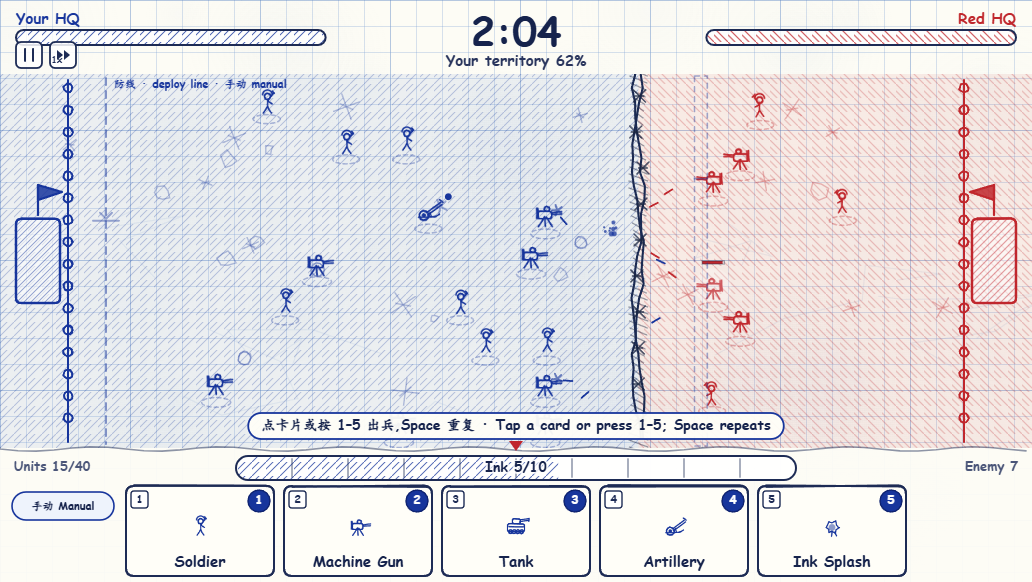
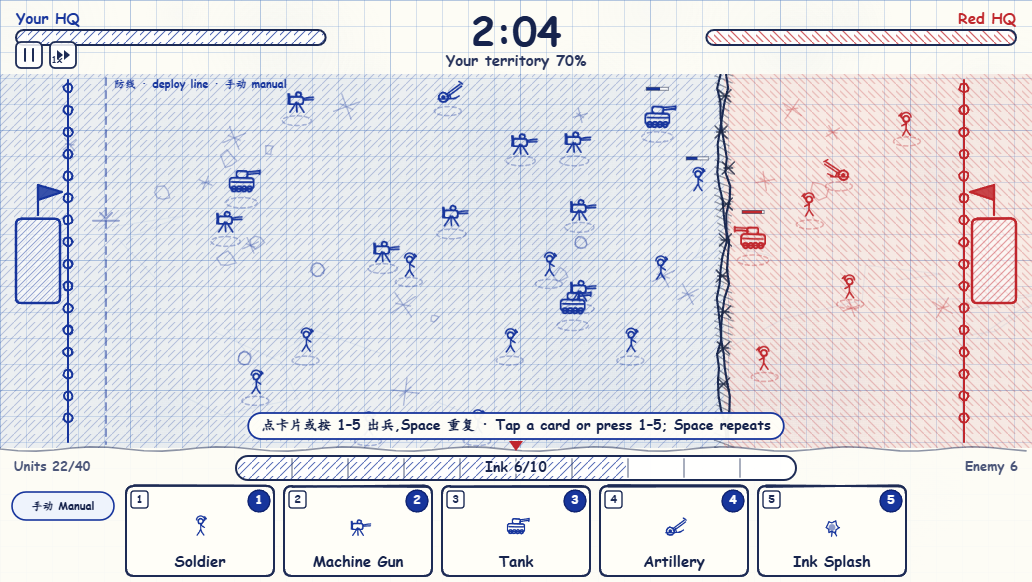
The front line is a boundary; only the front rank fights in the open
Units were standing on the wrong side of the moving front line. Measured over
a full match: up to 94 px past it, in one second out of seven, and in 4
seconds out of 43 the two armies were interleaved in x - red reinforcements
were spawning *behind* a blue spearhead that had outrun the line.

Cause: frontX eases towards the midpoint of the two front ranks at 22 px/s,
so it trails whoever is pushing. It cannot simply be a wall the units obey -
the line is derived from unit positions, so pinning units to it makes the
midpoint equal the line and the front freezes forever. Units must be free to
lead; the line must be forbidden to lag, so updateFront() now clamps frontX
into the gap between the two leads. Spawn positions take their floor/ceiling
from the leads rather than from the lagging line.

Result, same measurement: 0 px of penetration and 0 interleaved frames over
23,000 frames across all three difficulties, and on screen the deepest blue
sprite now stops inside the blue half.

Cover follows. The old rule ("half damage while behind the line") was, in
practice, always on - which is why it is replaced rather than kept:

- a unit is in the open if it is in the deepest 1/8 of its army (FRONT_RANK),
  and a force under 8 is entirely dug in
- the naive version ("a lone unit is its own front rank") halves the effective
  hp of every lone tank and artillery piece and flips the locked counter-
  triangle: 4 soldiers stop beating a tank, 5 stop beating an artillery. The
[…]

diff --git a/paper-trench.html b/paper-trench.html
@@ -57,9 +57,12 @@ var HQ_REGEN = 14;           // hp/s once the HQ has been left alone for a momen
 var HQ_RANGE = 195;          // the HQ watchtower's reach
 var HQ_DPS   = 15;           // per shot
 var HQ_RATE  = 0.42;         // seconds between shots
-var PLAYER_REGEN = 0.82;     // ink per second (nudged up when the ranged units gained reach)
+var PLAYER_REGEN = 1.05;     // ink per second. Raised twice, each time to pay for a change
+                             // that measurably favoured the AI: longer ranged units, then
+                             // the exposed front rank. Re-run the ladder before touching it.
 var MAX_UNITS_PER_SIDE = 40;
 var FRONT_SPEED = 22;        // how fast the trench line crawls, px/s at ui 1
+var FRONT_RANK = 8;          // one unit in eight is in the open — see inCover()
 
 /* ------------------------------- state --------------------------------- */
 var W = 0, H = 0, DPR = 1;
@@ -78,6 +81,10 @@ var G = {
   ink: 10,
   aiInk: 8,
   frontX: 0,
+  blueLead: -1,          // deepest blue unit (its x); -1 while the army is empty
+  redLead: 1e9,          // deepest red unit; the line may never cross either lead
+  blueOpen: 1e9,         // blue forward of this x is in the open; 1e9 = nobody is
+  redOpen: -1,           // red behind this x is in the open;  -1  = nobody is
   units: [],
   projs: [],
   fx: [],
@@ -454,10 +461,10 @@ function unitSprite(key, side) {
    special advantage instead:
        Soldier    Q ~1180  the yardstick: most hp and dps per ink, but fragile
        Tank       Q ~ 760  pays for concentration and surviving artillery
-       Machine Gun Q ~ 670  pays for 125 range
-       Artillery  Q ~ 180  pays for 265 range + splash, dies to anything close
-   DPS is the real damage per second against one target, ignoring the 50% bonus
-   for standing on your own soil (which applies to both sides). */
+       Machine Gun Q ~ 670  pays for 168 range
+       Artillery  Q ~ 180  pays for 285 range + splash, dies to anything close
+   DPS is the real damage per second against one target, with the exposed front rank
+   taking full damage and the support ranks taking half (both sides alike). */
 var UNITS = {
   soldier: {
     key: "soldier", name: "Soldier", cn: "士兵", cost: 1,
@@ -482,7 +489,7 @@ var UNITS = {
   ink: {
     key: "ink", name: "Ink Splash", cn: "墨水泼溅", cost: 5,
     hp: 0, speed: 0, range: 0, dmg: 175, rate: 0, radius: 122, instant: true,
-    desc: "Instant. Auto-aimed at the enemy's biggest knot: 175 damage across a whole trench column — wipes out infantry, even on their own soil."
+    desc: "Instant. Auto-aimed at the enemy's biggest knot: 175 damage across a whole trench column — it wipes out infantry even in cover."
   }
 };
 var ORDER = ["soldier", "mg", "tank", "artillery", "ink"];
@@ -524,6 +531,8 @@ function startGame(diff) {
   G.enemyHQ  = { side: "red",  isHQ: true, x: W - m, y: f.y + f.h / 2, hp: HQ_HP, maxHp: HQ_HP, flash: 0,
                  range: HQ_RANGE * L.ui, turretT: 0.6, calm: 0 };
   G.frontX = W / 2;
+  G.blueLead = -1; G.redLead = 1e9;
+  G.blueOpen = 1e9; G.redOpen = -1;
 }
 
 function endGame(reason) {
@@ -610,14 +619,18 @@ function deployLineX(side) {
 }
 
 function playerSpawnX() {
-  // never left of the line, never past the trench
-  return clamp(Math.min(deployLineX("blue"), G.frontX - 24 * L.ui), 12, W - 14);
+  // never right of the line, and never right of the enemy's deepest scout
+  var x = Math.min(deployLineX("blue"), G.frontX - 24 * L.ui);
+  if (G.redLead <= W) x = Math.min(x, G.redLead - 34 * L.ui);
+  return clamp(x, 12, W - 14);
 }
 
 function enemySpawnX() {
   // enemy troops march out of their own defence line on the far right — they no
-  // longer materialise next to the front.
-  return clamp(Math.max(deployLineX("red"), G.frontX + 24 * L.ui), 12, W - 14);
+  // longer materialise next to the front, and never behind our spearhead.
+  var x = Math.max(deployLineX("red"), G.frontX + 24 * L.ui);
+  if (G.blueLead >= 0) x = Math.max(x, G.blueLead + 34 * L.ui);
+  return clamp(x, 12, W - 14);
 }
 
 // One tap = one unit on the field, so the lane has to be chosen for the player.
@@ -733,13 +746,22 @@ function spawnInkBlot(side, tx, ty, dmg, radius) {
 }
 
 /* -------------------------------- combat ------------------------------- */
-function onOwnSoil(u) {
-  return u.side === "blue" ? (u.x < G.frontX) : (u.x > G.frontX);
+// Half damage, unless you are in the open.
+//
+// Exposure is a property of a *line*, not of whichever unit happens to be deepest:
+// one unit in FRONT_RANK is in the open, and a force smaller than that is entirely
+// dug in. Making a lone unit its own front rank would strip the tank and the
+// artillery of half their effective hp — a lone heavy unit would always be exposed —
+// and that flips the locked counter-triangle (4 soldiers stop beating a tank).
+// Do not "simplify" this back to a distance from the deepest unit.
+function inCover(u) {
+  if (u.side === "blue") return u.x < G.blueOpen;
+  return u.x > G.redOpen;
 }
 
 function damageUnit(u, dmg) {
   if (u.hp <= 0) return;
-  if (onOwnSoil(u)) dmg *= 0.5;          // 50% damage reduction on your own territory
+  if (inCover(u)) dmg *= 0.5;            // 50% damage reduction for the support ranks
   u.hp -= dmg;
   u.flash = 0.16;
   if (u.hp <= 0) killUnit(u);
@@ -1022,6 +1044,29 @@ function updateFront(dt) {
   var spd = FRONT_SPEED * L.ui * resist;
   G.frontX += clamp(target - G.frontX, -spd * dt, spd * dt);
   G.frontX = clamp(G.frontX, margin * 0.5, W - margin * 0.5);
+
+  // The line is a boundary, not just a trailing average. It may never sit behind the
+  // deepest unit of either army, or that unit would be standing on the wrong side of
+  // the line it is supposed to be holding. Note the target above is still the midpoint
+  // of the two *averages* — that is the intent; this clamp is the guarantee.
+  G.blueLead = blues.length ? blues[0] : -1;
+  G.redLead = reds.length ? reds[0] : 1e9;
+
+  // Who is standing in the open: the deepest slice of each army, one unit in
+  // FRONT_RANK. A force smaller than FRONT_RANK has no front rank to expose, so it is
+  // all in cover — that is what keeps lone tanks and artillery viable.
+  var k = Math.floor(blues.length / FRONT_RANK);
+  G.blueOpen = k > 0 ? blues[k - 1] : 1e9;
+  k = Math.floor(reds.length / FRONT_RANK);
+  G.redOpen = k > 0 ? reds[k - 1] : -1;
+
+  if (blues.length && reds.length && G.blueLead <= G.redLead) {
+    G.frontX = clamp(G.frontX, G.blueLead, G.redLead);
+  } else {
+    // no army on one side, or the two are somehow interleaved: hold our own lead.
+    if (blues.length) G.frontX = Math.max(G.frontX, G.blueLead);
+    if (reds.length) G.frontX = Math.min(G.frontX, G.redLead);
+  }
 }
 
 function updateFX(dt) {
@@ -1657,8 +1702,8 @@ function drawUnit(u) {
   var x = u.x - s / 2;
   var y = u.y - s / 2 + bob;
 
-  // shield hint: standing on your own soil = 50% less damage
-  if (onOwnSoil(u)) {
+  // shield hint: the support ranks take half damage, the open front rank does not
+  if (inCover(u)) {
     ctx.save();
     ctx.globalAlpha = 0.32;
     ctx.strokeStyle = u.side === "blue" ? C.blue : C.red;

diff --git a/AGENTS.md b/AGENTS.md
@@ -25,12 +25,12 @@ These are requirements, not preferences. Breaking one breaks the deliverable.
 for the banner, not by line number:
 
 ```
-constants (31) · state (64) · helpers (107) · doodle drawing (143) · sizing (240)
-unit sprite (354) · data (447) · lifecycle (496) · spawning (541) · projectiles (684)
-combat (735) · fx (799) · update (815) · AI (1034) · input (1157)
-rendering (1364) → battlefield (1490) HUD (1783) bottom bar (1895) menu (2176)
-  hotkey help overlay (2552) game over (2658)
-loop (2729) · boot (2750)
+constants (31) · state (67) · helpers (114) · doodle drawing (150) · sizing (247)
+unit sprite (361) · data (454) · lifecycle (503) · spawning (550) · projectiles (697)
+combat (748) · fx (821) · update (837) · AI (1079) · input (1202)
+rendering (1409) → battlefield (1535) HUD (1828) bottom bar (1940) menu (2221)
+  hotkey help overlay (2597) game over (2703)
+loop (2774) · boot (2795)
 ```
 
 Repo root also holds `preview-menu.png`, `preview-gameplay.png`, `preview-guide.png`,
@@ -62,6 +62,11 @@ window.__PT = { G: G, L: L, update: update, render: render, resize: resize,
 Everything a test needs goes through `deployCard(key)` — the same single entry point the
 cards and the hotkeys use. There is no separate "click on the field" path to call any
 more, so a rule test cannot accidentally exercise a code path the player never touches.
+For front-line work also expose `inCover`, `damageUnit`, `playerSpawnX`, `enemySpawnX`,
+`autoLane`, `targetLane`, `targetBlot`, `toggleMode`, and the `buttons` array (as
+`down()`), plus setters for any constant you want to A/B (`setRank`, `setRegen`) —
+patching the exported `UNITS` table only works for values `spawnUnit` copies at spawn
+time, not for constants read inside `update()`.
 
 Stub the canvas and 2D context with a `Proxy` that returns a no-op function for any
 method and swallows any property set, so `render()` runs without a DOM. Three methods
@@ -98,10 +103,15 @@ Do not rediscover these.
   `innerWidth = width - 16` and `innerHeight = height - 95`, so the reference 1032×582
   layout needs `--window-size=1048,677`. Check `innerWidth+'x'+innerHeight` before
   trusting any screenshot's geometry.
-- **A measurement harness must let the front line move.** Pinning `frontX` to a fixed x
-  gives one side the 50% home-soil bonus and denies it to the other, which silently
-  doubles one army's effective HP and makes every duel favour the defender. Let
-  `updateFront()` run.
+- **A measurement harness must let the front line move.** `frontX` is now clamped into
+  the gap between the two leads, so pinning it by hand makes the clamp fight you — and
+  before the clamp existed, pinning it gave one side the home-soil bonus and denied it to
+  the other, which silently doubled one army's effective hp and made every duel favour the
+  defender. Let `updateFront()` run.
+- **Neuter the watchtowers before measuring a duel.** `playerHQ.range = enemyHQ.range = 0`
+  and HQ hp at 1e6. A duellist that wanders within 195 px of an HQ gets shot by it, which
+  killed the 34 px stand-off assertion (the soldier died at 47 px) until the ranges were
+  zeroed.
 - **`update()` decrements the 180 s clock.** A long sequence of duels in one harness
   process will trip `endGame` and then silently simulate nothing. Reset
   `G.screen = "playing"; G.time = 9999;` before each independent scenario.
@@ -124,8 +134,26 @@ Do not rediscover these.
   by `k = min(SPLASH_SQUASH, 0.85*radius/(L.field.h*0.5))` so a blast always inks the
   whole trench column at any window aspect ratio. A plain `Math.hypot` circle made
   artillery appear to always miss — do not "simplify" this back.
-- **50% damage reduction on your own soil** is a spec requirement, not a tuning knob.
-  It applies to whichever side is behind `frontX`.
+- **The front line is a hard boundary.** `updateFront()` eases `frontX` towards the
+  midpoint of the two front-rank averages, and then **clamps it into the gap between the
+  two leads** (`blues[0]` … `reds[0]`). Without that clamp the line trails at
+  `FRONT_SPEED` and units stand on the wrong side of it — measured at up to 94 px, in one
+  second out of seven. Note why this is a clamp and not a wall the units obey: the line is
+  *derived* from unit positions, so pinning units to it makes the midpoint equal the line
+  and the front freezes forever. Units must be free to lead; the line must be forbidden to
+  lag.
+- **Nothing may be spawned on the far side of the front.** `playerSpawnX()` /
+  `enemySpawnX()` take the floor/ceiling from `G.redLead` / `G.blueLead`, not from the
+  lagging `frontX`. Using the line alone let red reinforcements appear *behind* a blue
+  spearhead that had outrun it (4 seconds in 43 at the old settings) — the two armies
+  interleaved in x, which 1-D combat is not built for.
+- **Cover is a property of a line, not of whoever is deepest.** `inCover()` gives a unit
+  half damage unless it is in the deepest `1/FRONT_RANK` slice of its army, and a force
+  smaller than `FRONT_RANK` (8) is entirely dug in. The obvious "a lone unit is its own
+  front rank" version halves the effective hp of every lone tank and artillery piece and
+  **flips the locked counter-triangle** (4 soldiers stop beating a tank, 5 stop beating an
+  artillery) — the exposure is a rolling penalty, so whichever unit is leading at any
+  moment is the one paying for it. Test both arms of this with `--rank=`.
 - **Both armies deploy from their own defence line**, `DEPLOY_LINE = 68` px behind the
   HQ. **Deploying is a single action**: the cards, `1`–`5` and `Space` all call
   `deployCard(key)` and the unit is on its way — there is never a second click on the
@@ -185,7 +213,7 @@ Current values, kept here because they are the ones the balance was verified aga
 `DIFFS` — recruit `{think 2.4, regen 0.34, wave 9, stat 0.90, smart 0}`, sergeant
 `{1.5, 0.56, 6, 1.00, 0.55}`, general `{0.95, 0.80, 5, 1.06, 1}`.
 Match `DURATION = 180`, `HQ_HP = 3000`, `MAX_UNITS_PER_SIDE = 40`,
-`PLAYER_REGEN = 0.82`.
+`PLAYER_REGEN = 1.05`, `FRONT_RANK = 8`.
 
 Stand-off distances fall straight out of the range column and are asserted in the
 harness: soldier 34, mg 168, tank 96, artillery 285 px from a target that cannot move.
@@ -209,6 +237,13 @@ sandbox only when comparing two arms inside one process; for absolute win rates 
   put it back at 29% / 2-30 wins, and recruit (already meant to be winnable) went 18/20 →
   20/20. When a change moves a metric, prefer the same proxy re-measured over raw win
   counts, which saturate at n≈30.
+- **Exposing the front rank** (paired seeds, n=20, `--rank=1e9` vs `--rank=8`): recruit
+  18/20 @87% vs 12/20 @60%, sergeant 2/20 @25% vs 0/20 @23%, general 0/20 @17% vs 0/20
+  @20%. So a rule that makes the leading unit pay full price is worth about 6 wins and 27
+  points of territory — pay for it in `PLAYER_REGEN` (0.82 → 1.05 put recruit back at
+  17/20 @75%, sergeant 2/20 @31%, general 0/20 @21%). Any exposure share from 1/8 to 1/24
+  costs roughly the same, because the penalty *rolls*: kill the leader and the next unit
+  becomes the leader. There is no gentle setting of this knob.
 
 ## Conventions
 

diff --git a/README.md b/README.md
@@ -31,7 +31,7 @@
 
 ### 墨水
 
-墨水是唯一的资源,上限 10 点，每秒回复 0.82 点。
+墨水是唯一的资源,上限 10 点，每秒回复 1.05 点。
 
 **落后的一方回墨更快**：当你的领土占比低于 45% 时，墨水恢复速度会获得加成，最低谷时约为 1.7 倍。这是防止滚雪球的设计——被推到家门口不会直接崩盘。
 
@@ -41,11 +41,19 @@
 
 战场被一条会实时移动的**前线**分成两块。补给线以内的土地就是你的领土。
 
-站在**自己领土上时受到的伤害减半**。这条规则对双方同时生效——所以你防守时更硬，但敌人缩回自己阵地时也一样难啃。
+**只有最前排会挨满伤害，后面的兄弟有掩体,受到的伤害减半。** 判定方式是看你离**自家最深入的部队**有多远:
+
+- 每 8 个兵里有 1 个在最前面开路,它吃满伤害;身后的人减半
+- 部队不足 8 人时没有"前排"可言,全员都在掩体里(所以单独一辆坦克或一门火炮不会被白打)
+- 这条规则对双方完全一样
+
+所以硬冲是要付学费的:顶在最前面的人先挨枪,后面跟上来的才有掩体。
 
 ### 前线
 
-前线不是固定的，它由双方**最深入的 3 个单位**的平均位置决定。哪边推得靠前，线就往对面爬。前线爬进对方外侧 24% 的"筑垒区"时速度会明显变慢，形成一个自然的攻坚阻力。
+前线由双方**最深入的 3 个单位**的平均位置决定,哪边推得靠前,线就往对面爬。前线爬进对方外侧 24% 的"筑垒区"时速度会明显变慢,形成一个自然的攻坚阻力。
+
+**但前线同时是一条硬边界:任何单位都不会站到线的另一边。** 线会跟着最前面的部队走——如果线落在你部队后面,那支部队就等于站在界外了,所以线永远不低于(也不高于)双方最深入的那个单位。实测整局下来越线距离是 0 像素。
 
 ## 单位
 
@@ -164,8 +172,12 @@ doodle style. Blue ink is you, red ink is the enemy.
   a second click on the battlefield. The deploy lane is a setting: **Manual** (point at
   the lane with the mouse or the arrow keys) or **Auto** (the game reads the fight and
   picks), switchable from the menu or with `M`
-- You take **50% less damage standing on your own territory** — true for both sides
-- The front line moves in real time, driven by the three deepest units of each army
+- You take **50% less damage behind your own front rank** — one unit in eight is in the
+  open and takes full damage, and a force under eight is entirely dug in (so a lone tank
+  is never punished for being alone). True for both sides
+- The front line moves in real time, driven by the three deepest units of each army — and
+  it is a **hard boundary**: the line always keeps up with the deepest unit on either
+  side, so no unit ever stands on the wrong side of it
 - **Range is position.** A unit stops the moment it has a target in range, so soldiers
   hold the front while MGs, tanks and artillery form up behind them — no babysitting
 - **5 units** with an intentional counter-triangle (soldiers swarm, MGs shred infantry,
